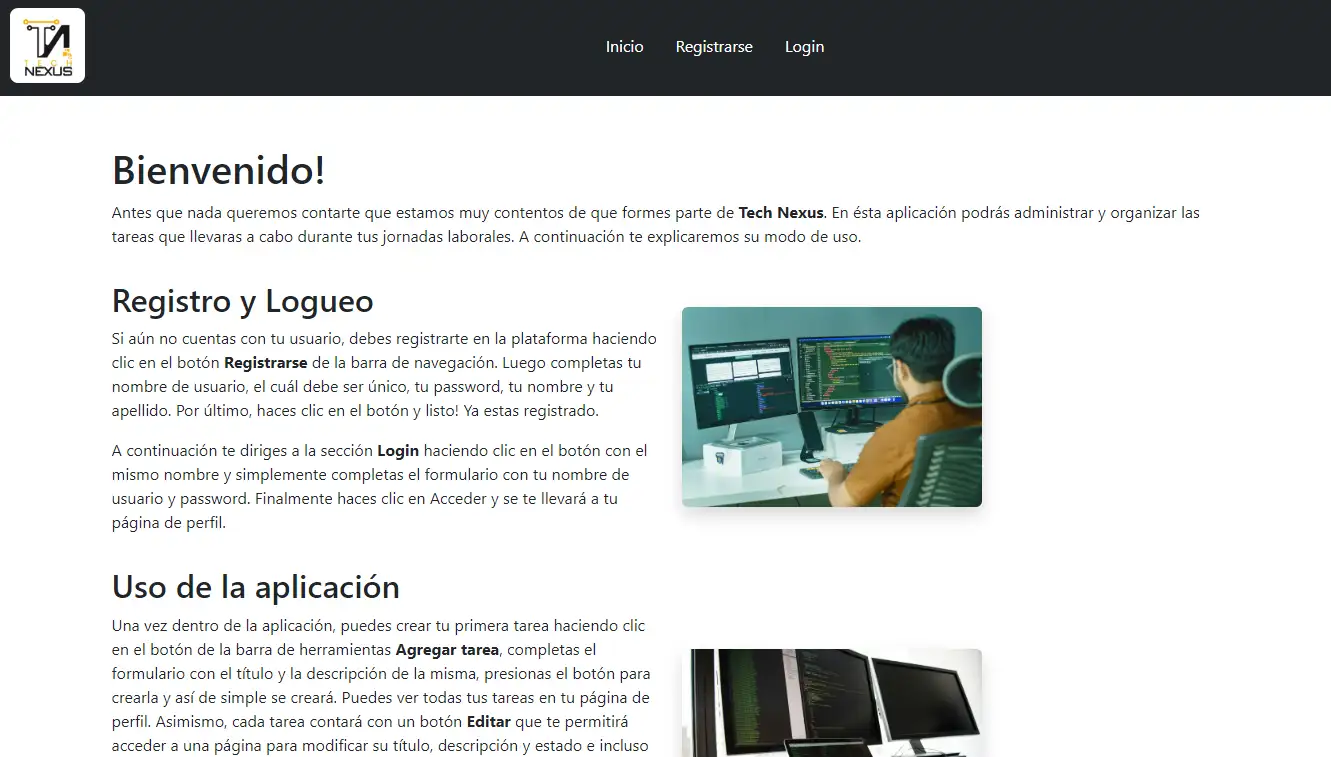
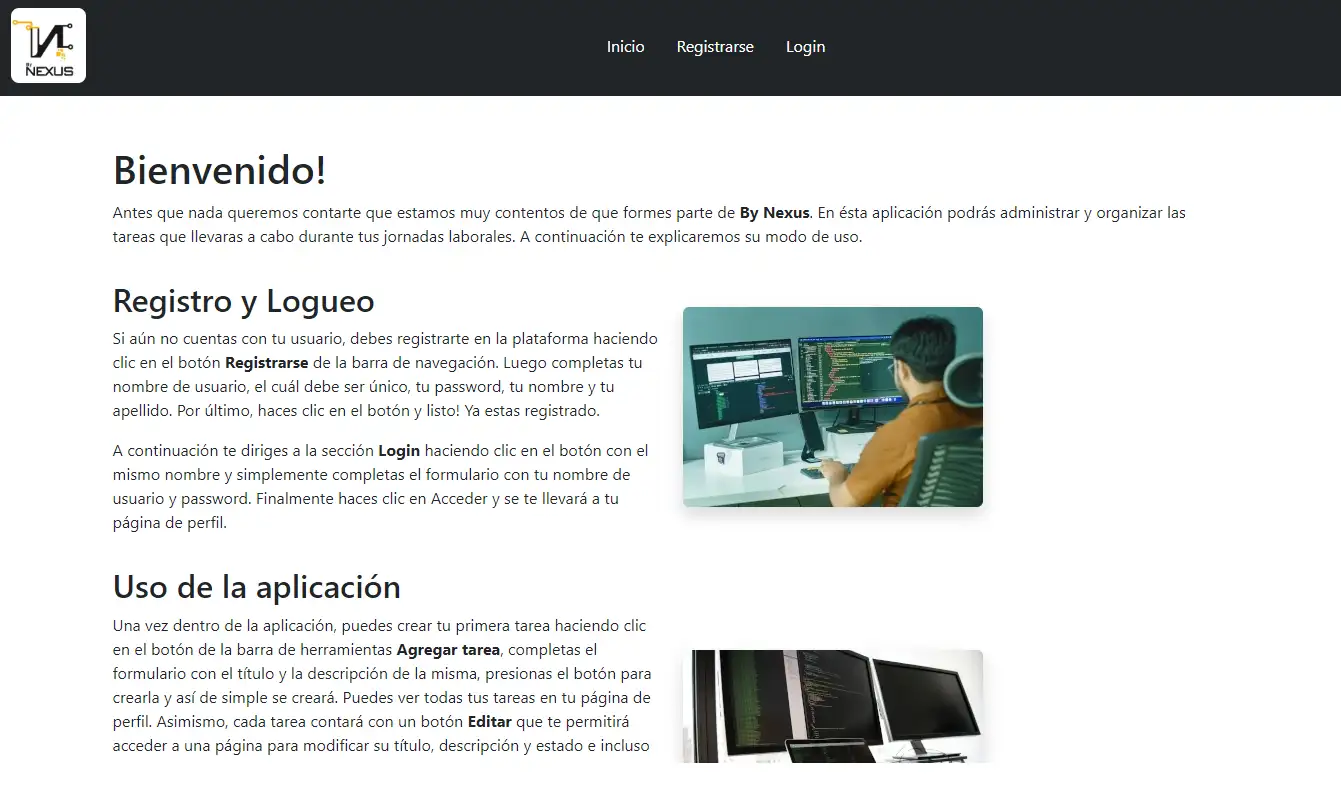
docs: se actualizan capturas con nueva brand

diff --git a/public/js/scripts.js b/public/js/scripts.js
@@ -227,7 +227,7 @@ document.addEventListener('DOMContentLoaded', () => {
 				userFirstName.value = data.firstname;
 				userLastName.value = data.lastname;
 				username.value = data.username;
-				userpass.value = 'Por-Seguridad-No-Se-Muestra-Su-Password-Actual-1';
+				userpass.value = 'P4ss******';
 			})
 			.catch((error) => {
 				console.error({
@@ -403,7 +403,7 @@ document.addEventListener('DOMContentLoaded', () => {
 				).value;
 				const username = document.getElementById('user_name_update').value;
 				let userpass = document.getElementById('user_pass_update').value;
-				if (userpass === 'Por-Seguridad-No-Se-Muestra-Su-Password-Actual-1') {
+				if (userpass === 'P4ss******') {
 					userpass = '';
 				}
 

diff --git a/public/pages/edit-profile.html b/public/pages/edit-profile.html
@@ -170,8 +170,8 @@
 									name="user_pass"
 									minlength="8"
 									placeholder="Password"
-									title="Edite su password (mínimo 8 caracteres, 1 mayúscula, 1 símbolo y 1 número)"
-									aria-label="Edite su password (mínimo 8 caracteres, 1 mayúscula, 1 símbolo y 1 número)"
+									title="Por seguridad no verá su password pero, puede editarlo (mínimo 8 caracteres, 1 mayúscula, 1 símbolo y 1 número)"
+									aria-label="Por seguridad no verá su password pero, puede editarlo (mínimo 8 caracteres, 1 mayúscula, 1 símbolo y 1 número)"
 									required
 								/>
 								<button
